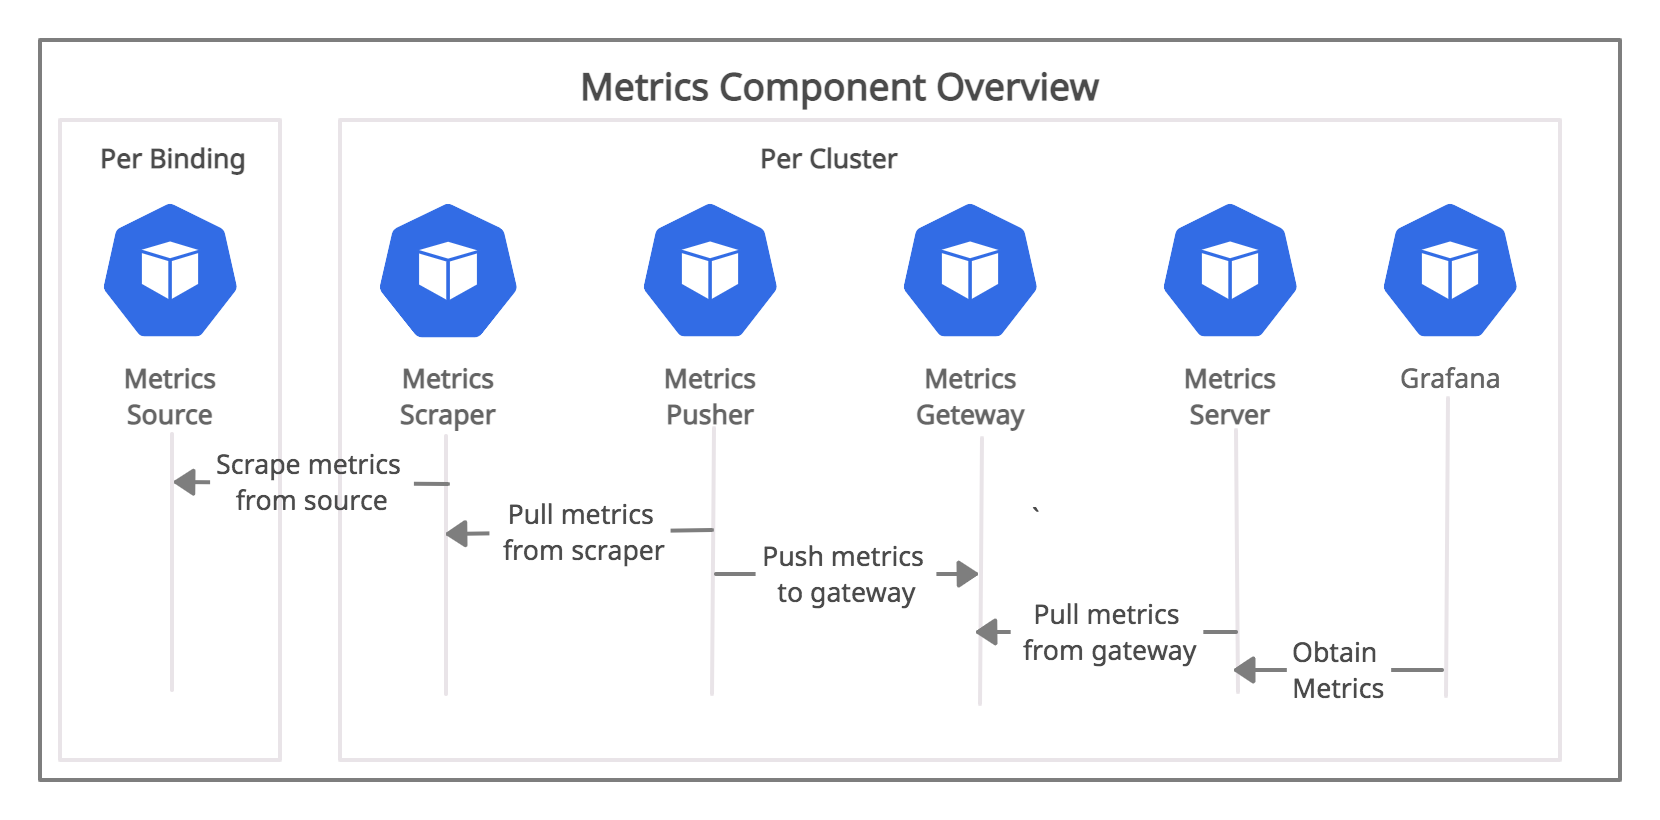
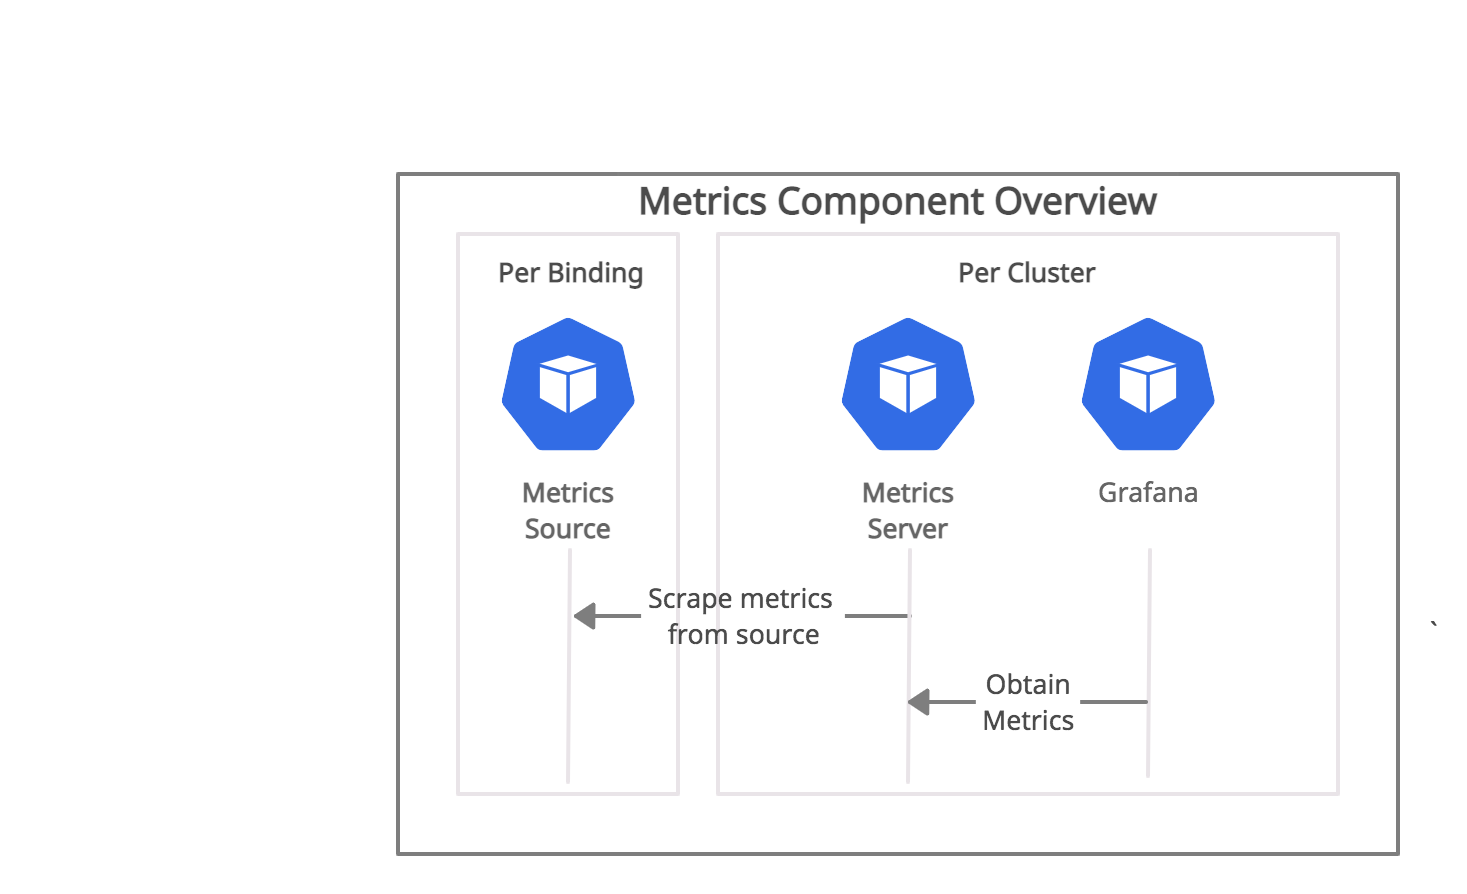
Update metrics documentation to reflect the newest Prometheus topology

diff --git a/content/en/docs/monitoring/metrics/metrics.md b/content/en/docs/monitoring/metrics/metrics.md
@@ -57,30 +57,12 @@ For example, for the previous metric source:
    $ curl -u USERNAME:PASSWORD localhost:7001/wls-exporter/metrics
    ```
 
-### Metrics scraper
-
-- Single pod per cluster
-- Named `prometheus-*` in `istio-system` namespace
-- Discovers exposed metrics endpoints
-- Stores the scraped metrics in memory
-
-### Metrics pusher
-
-- Single pod per cluster
-- Named `prom-pusher-system-*` in `monitoring` namespace
-- Pulls metrics from the metrics scraper
-- Pushes metrics to the metrics gateway
-
-### Metrics gateway
-
-- Single pod per cluster
-- Named `vmi-system-prometheus-gw-*` in `verrazzano-system` namespace
-
 ### Metrics server
 
 - Single pod per cluster
 - Named `vmi-system-prometheus-*` in `verrazzano-system` namespace
-- Pulls metrics from the metrics gateway
+- Discovers exposed metrics source endpoints
+- Scrapes metrics from metrics sources
 - Responsible for exposing all metrics
 
 ## Grafana
